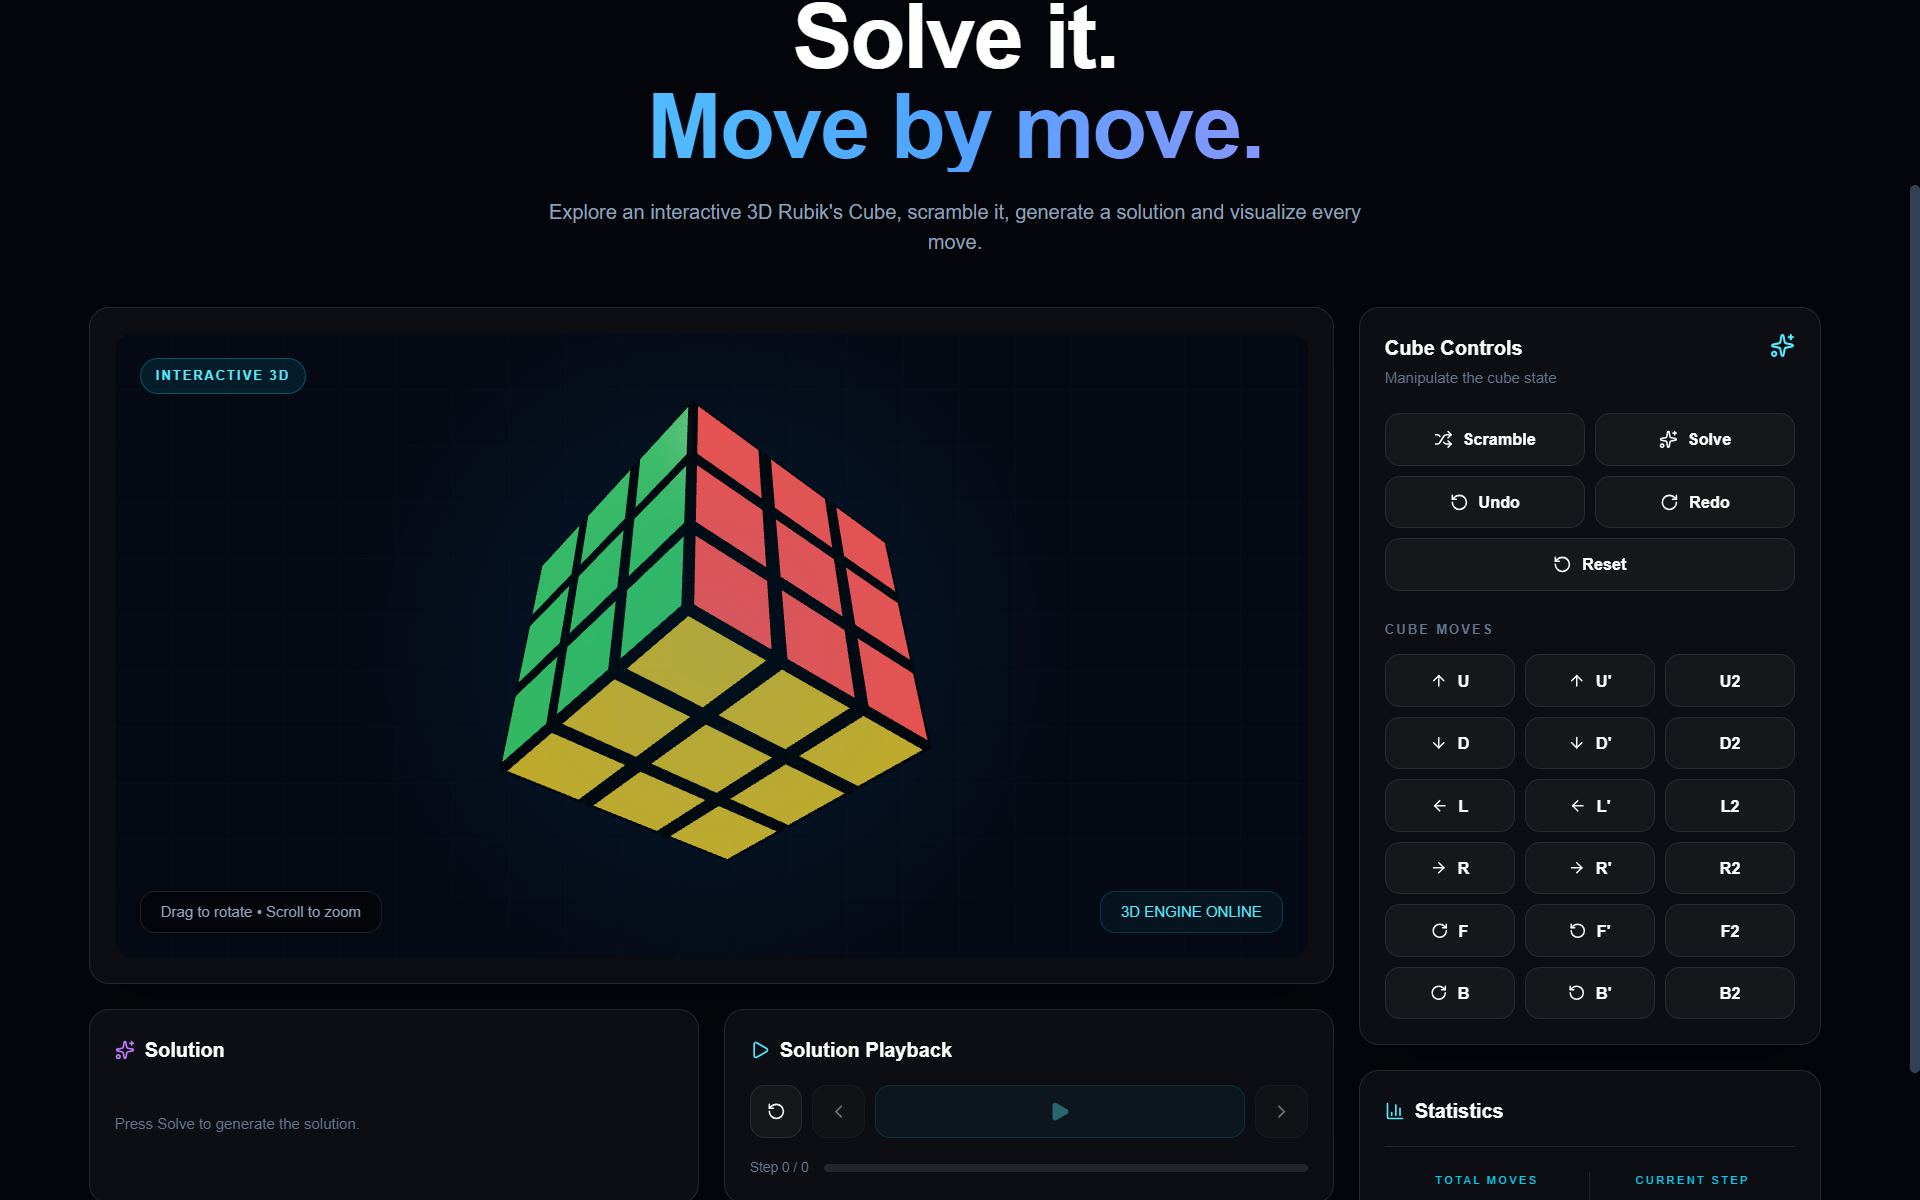
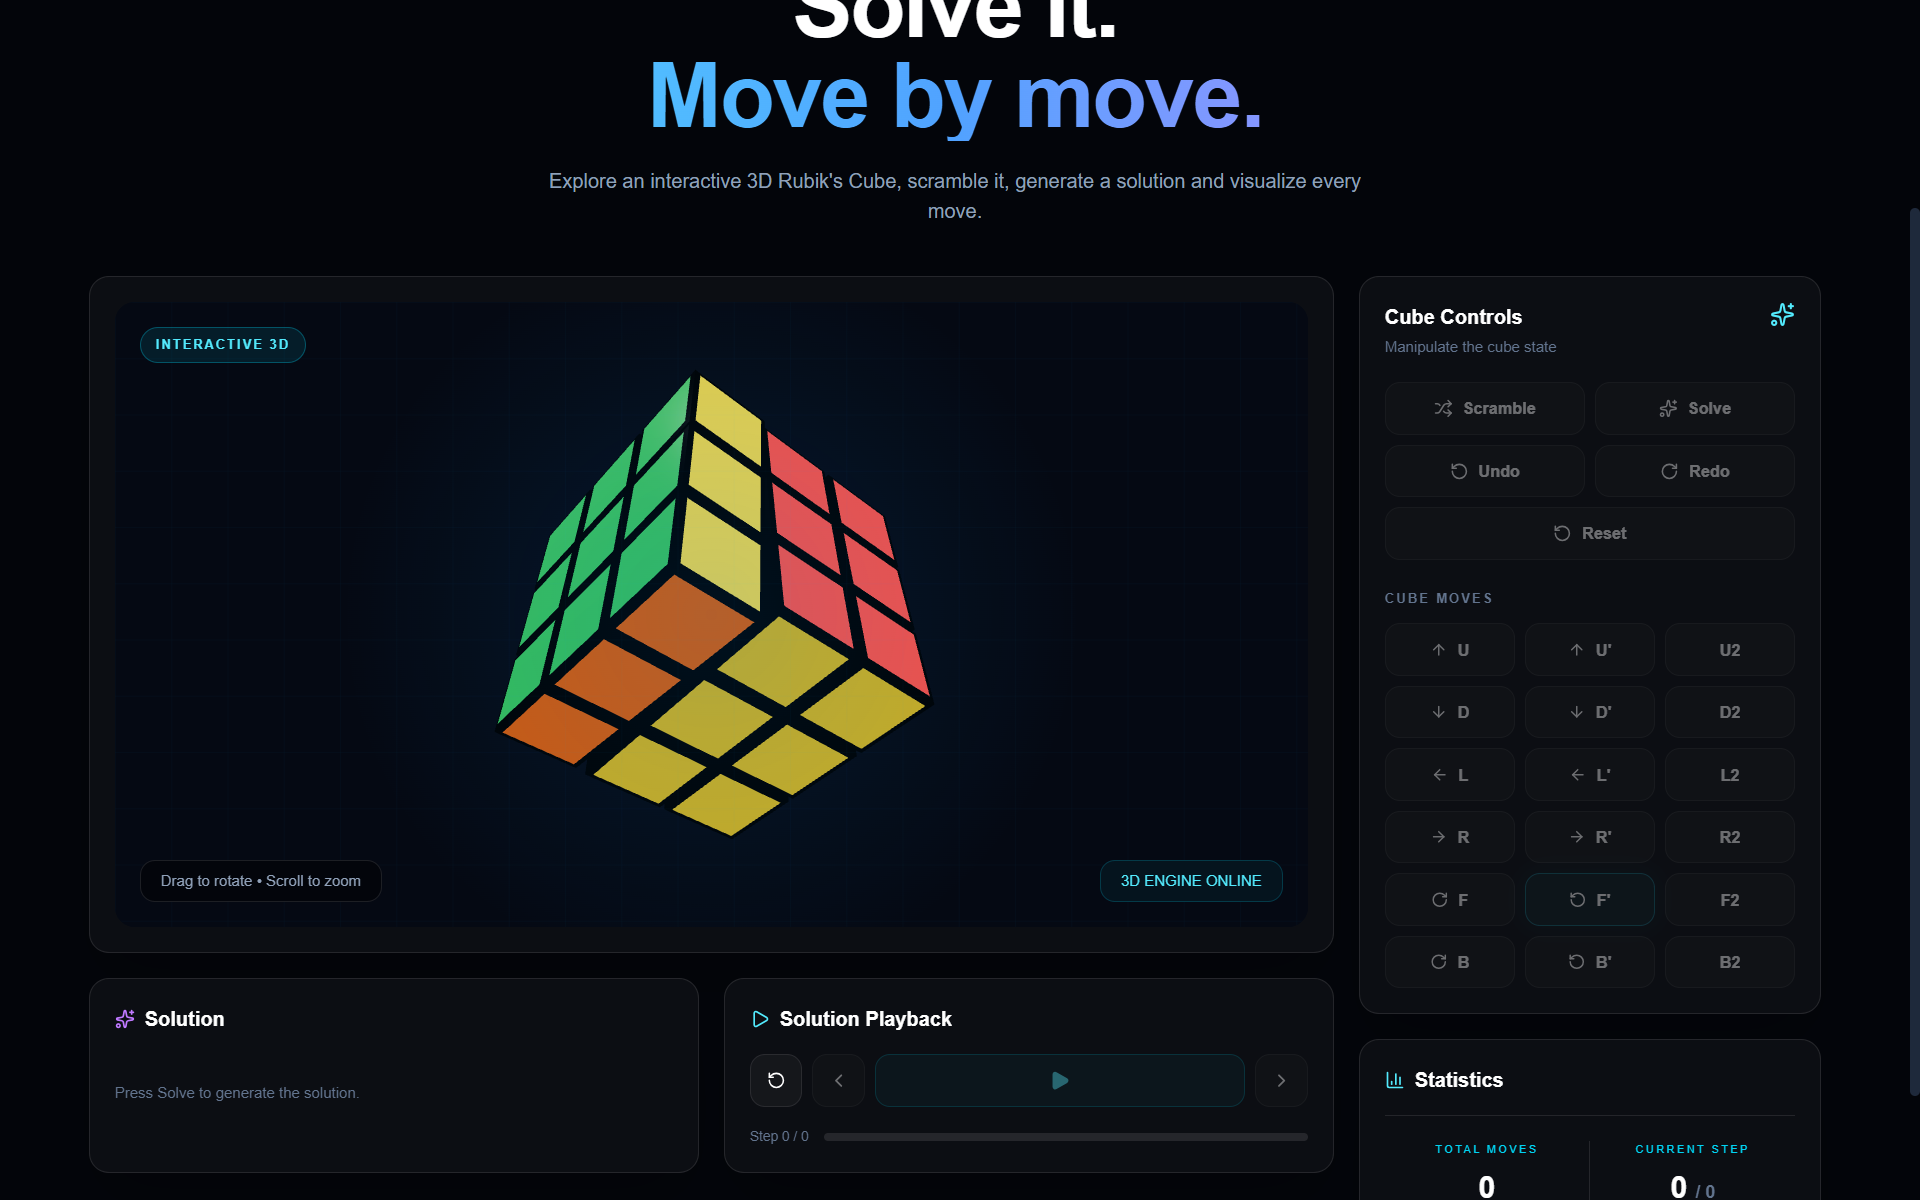
Modified UI structure

diff --git a/src/app/page.tsx b/src/app/page.tsx
@@ -10,7 +10,6 @@ import {
 import Background from "@/components/layout/Background";
 import Header from "@/components/layout/Header";
 import GlassCard from "@/components/ui/GlassCard";
-import StatusBadge from "@/components/ui/StatusBadge";
 import CubeControls from "@/components/controls/CubeControls";
 import SolutionPanel from "@/components/solver/SolutionPanel";
 import SolverControls from "@/components/solver/SolverControls";
@@ -64,7 +63,7 @@ export default function Home() {
         >
           <div className="mb-5 inline-flex items-center rounded-full border border-cyan-400/20 bg-cyan-400/5 px-3 py-1.5">
             <span className="text-[10px] font-semibold uppercase tracking-[0.2em] text-cyan-300">
-              CubeFlux Intelligence
+              Rubixq Intelligence
             </span>
           </div>
 

diff --git a/src/app/layout.tsx b/src/app/layout.tsx
@@ -2,9 +2,9 @@ import type { Metadata } from "next";
 import "./globals.css";
 
 export const metadata: Metadata = {
-  title: "CubeFlux",
+  title: "Rubixq",
   description:
-    "CubeFlux is an interactive 3D Rubik's Cube solver with physical move animations.",
+    "Rubixq is an interactive 3D Rubik's Cube solver with physical move animations.",
   icons: {
     icon: "/cube-icon.png",
     shortcut: "/cube-icon.png",

diff --git a/src/components/layout/Header.tsx b/src/components/layout/Header.tsx
@@ -13,7 +13,7 @@ export default function Header() {
 
           <div>
             <h1 className="text-sm font-semibold tracking-tight text-white sm:text-base">
-              CubeFlux
+              Rubixq
             </h1>
 
             <p className="text-[11px] text-slate-500 sm:text-xs">

diff --git a/README.md b/README.md
@@ -1,6 +1,6 @@
-# CubeFlux
+# Rubixq
 
-A futuristic 3D Rubik's Cube solver built with Next.js, Three.js and React Three Fiber. CubeFlux combines an interactive 3D cube, physical move animations and step-by-step solution playback in a responsive UI.
+A futuristic 3D Rubik's Cube solver built with Next.js, Three.js and React Three Fiber. Rubixq combines an interactive 3D cube, physical move animations and step-by-step solution playback in a responsive UI.
 
 ## Overview
 
@@ -36,31 +36,30 @@ A futuristic 3D Rubik's Cube solver built with Next.js, Three.js and React Three
 ### Installation
 
 ```bash
-git clone https://github.com/samoff04/CubeFlux.git
-cd CubeFlux
+git clone https://github.com/samoff04/Rubixq.git
+cd Rubixq
 npm install
 npm run dev
 ```
 
 ## Project Structure
-
 ```
-src/
-├── app/
-├── components/
-│   ├── cube/
-│   ├── controls/
-│   ├── layout/
-│   ├── solver/
-│   └── ui/
-├── lib/
-│   ├── cube/
-│   └── solver/
-├── store/
-├── types/
+Rubixq/
+├── src/
+│   ├── app/
+│   ├── components/
+│   ├── lib/
+│   ├── store/
+│   └── types/
 ├── docs/
-public/
-└── cube-icon.png
+├── public/
+├── .gitignore
+├── package.json
+├── package-lock.json
+├── next.config.js
+├── postcss.config.mjs
+├── tsconfig.json
+└── README.md
 ```
 
 ## Author
